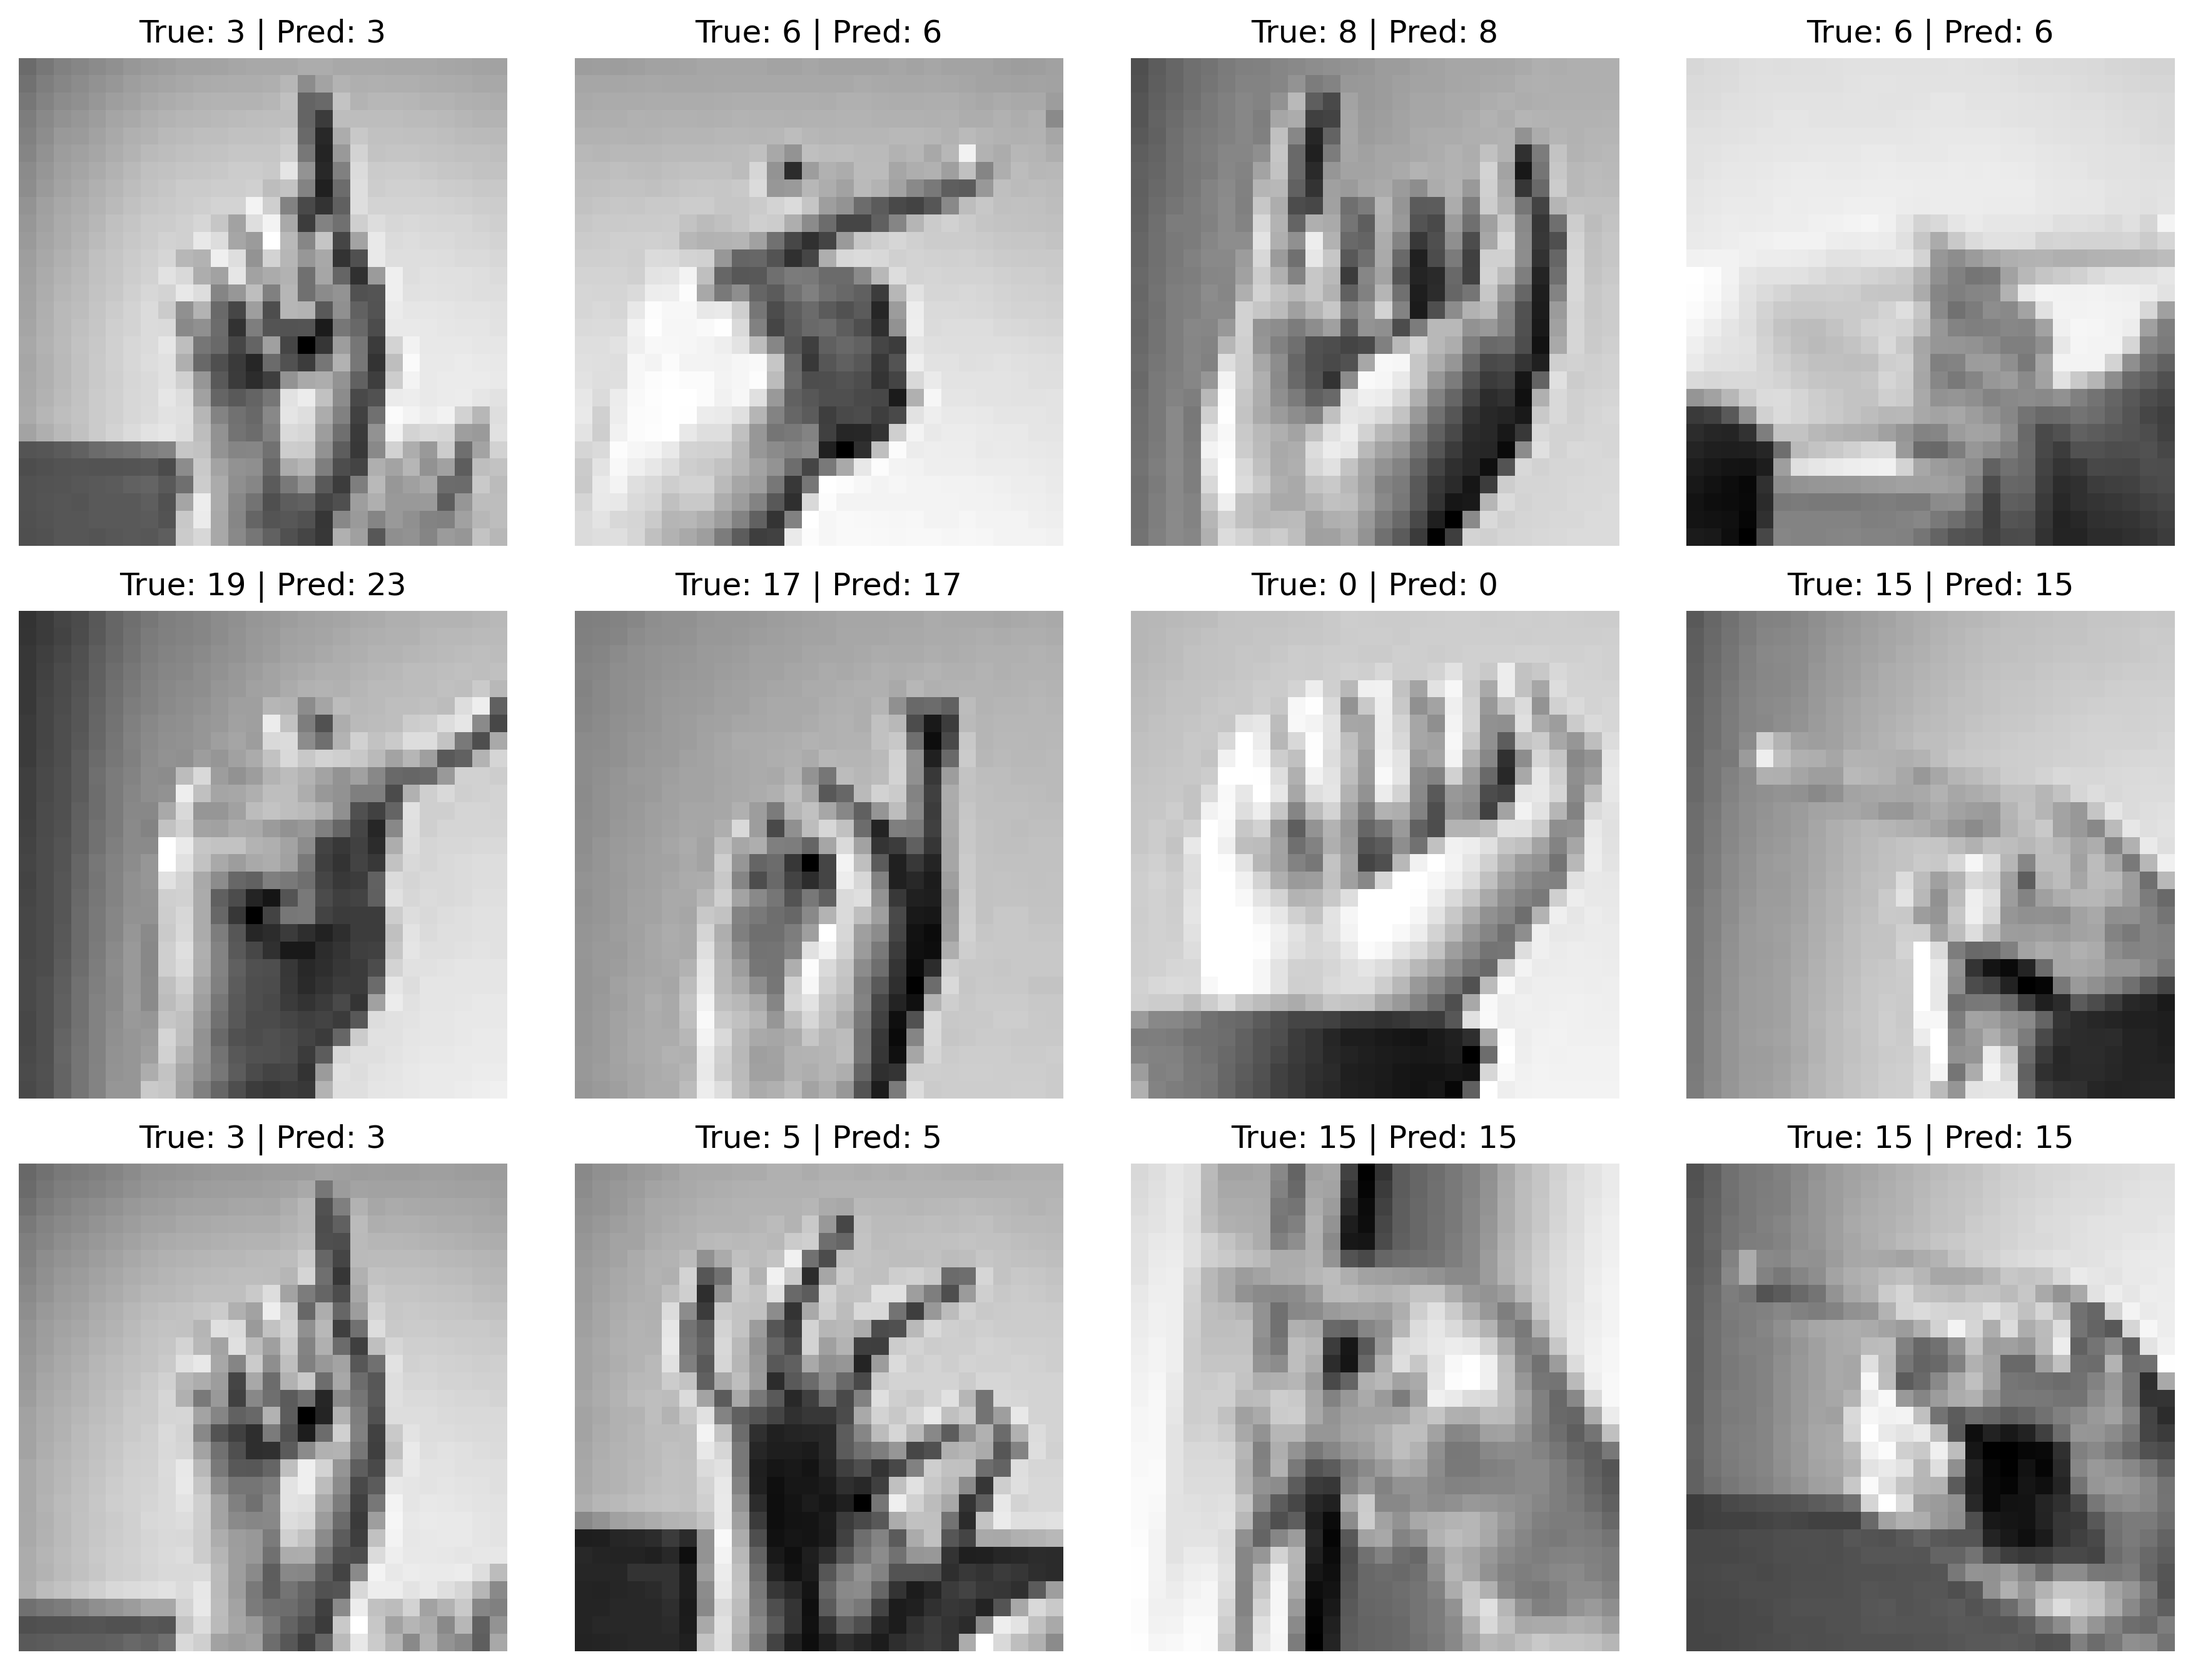
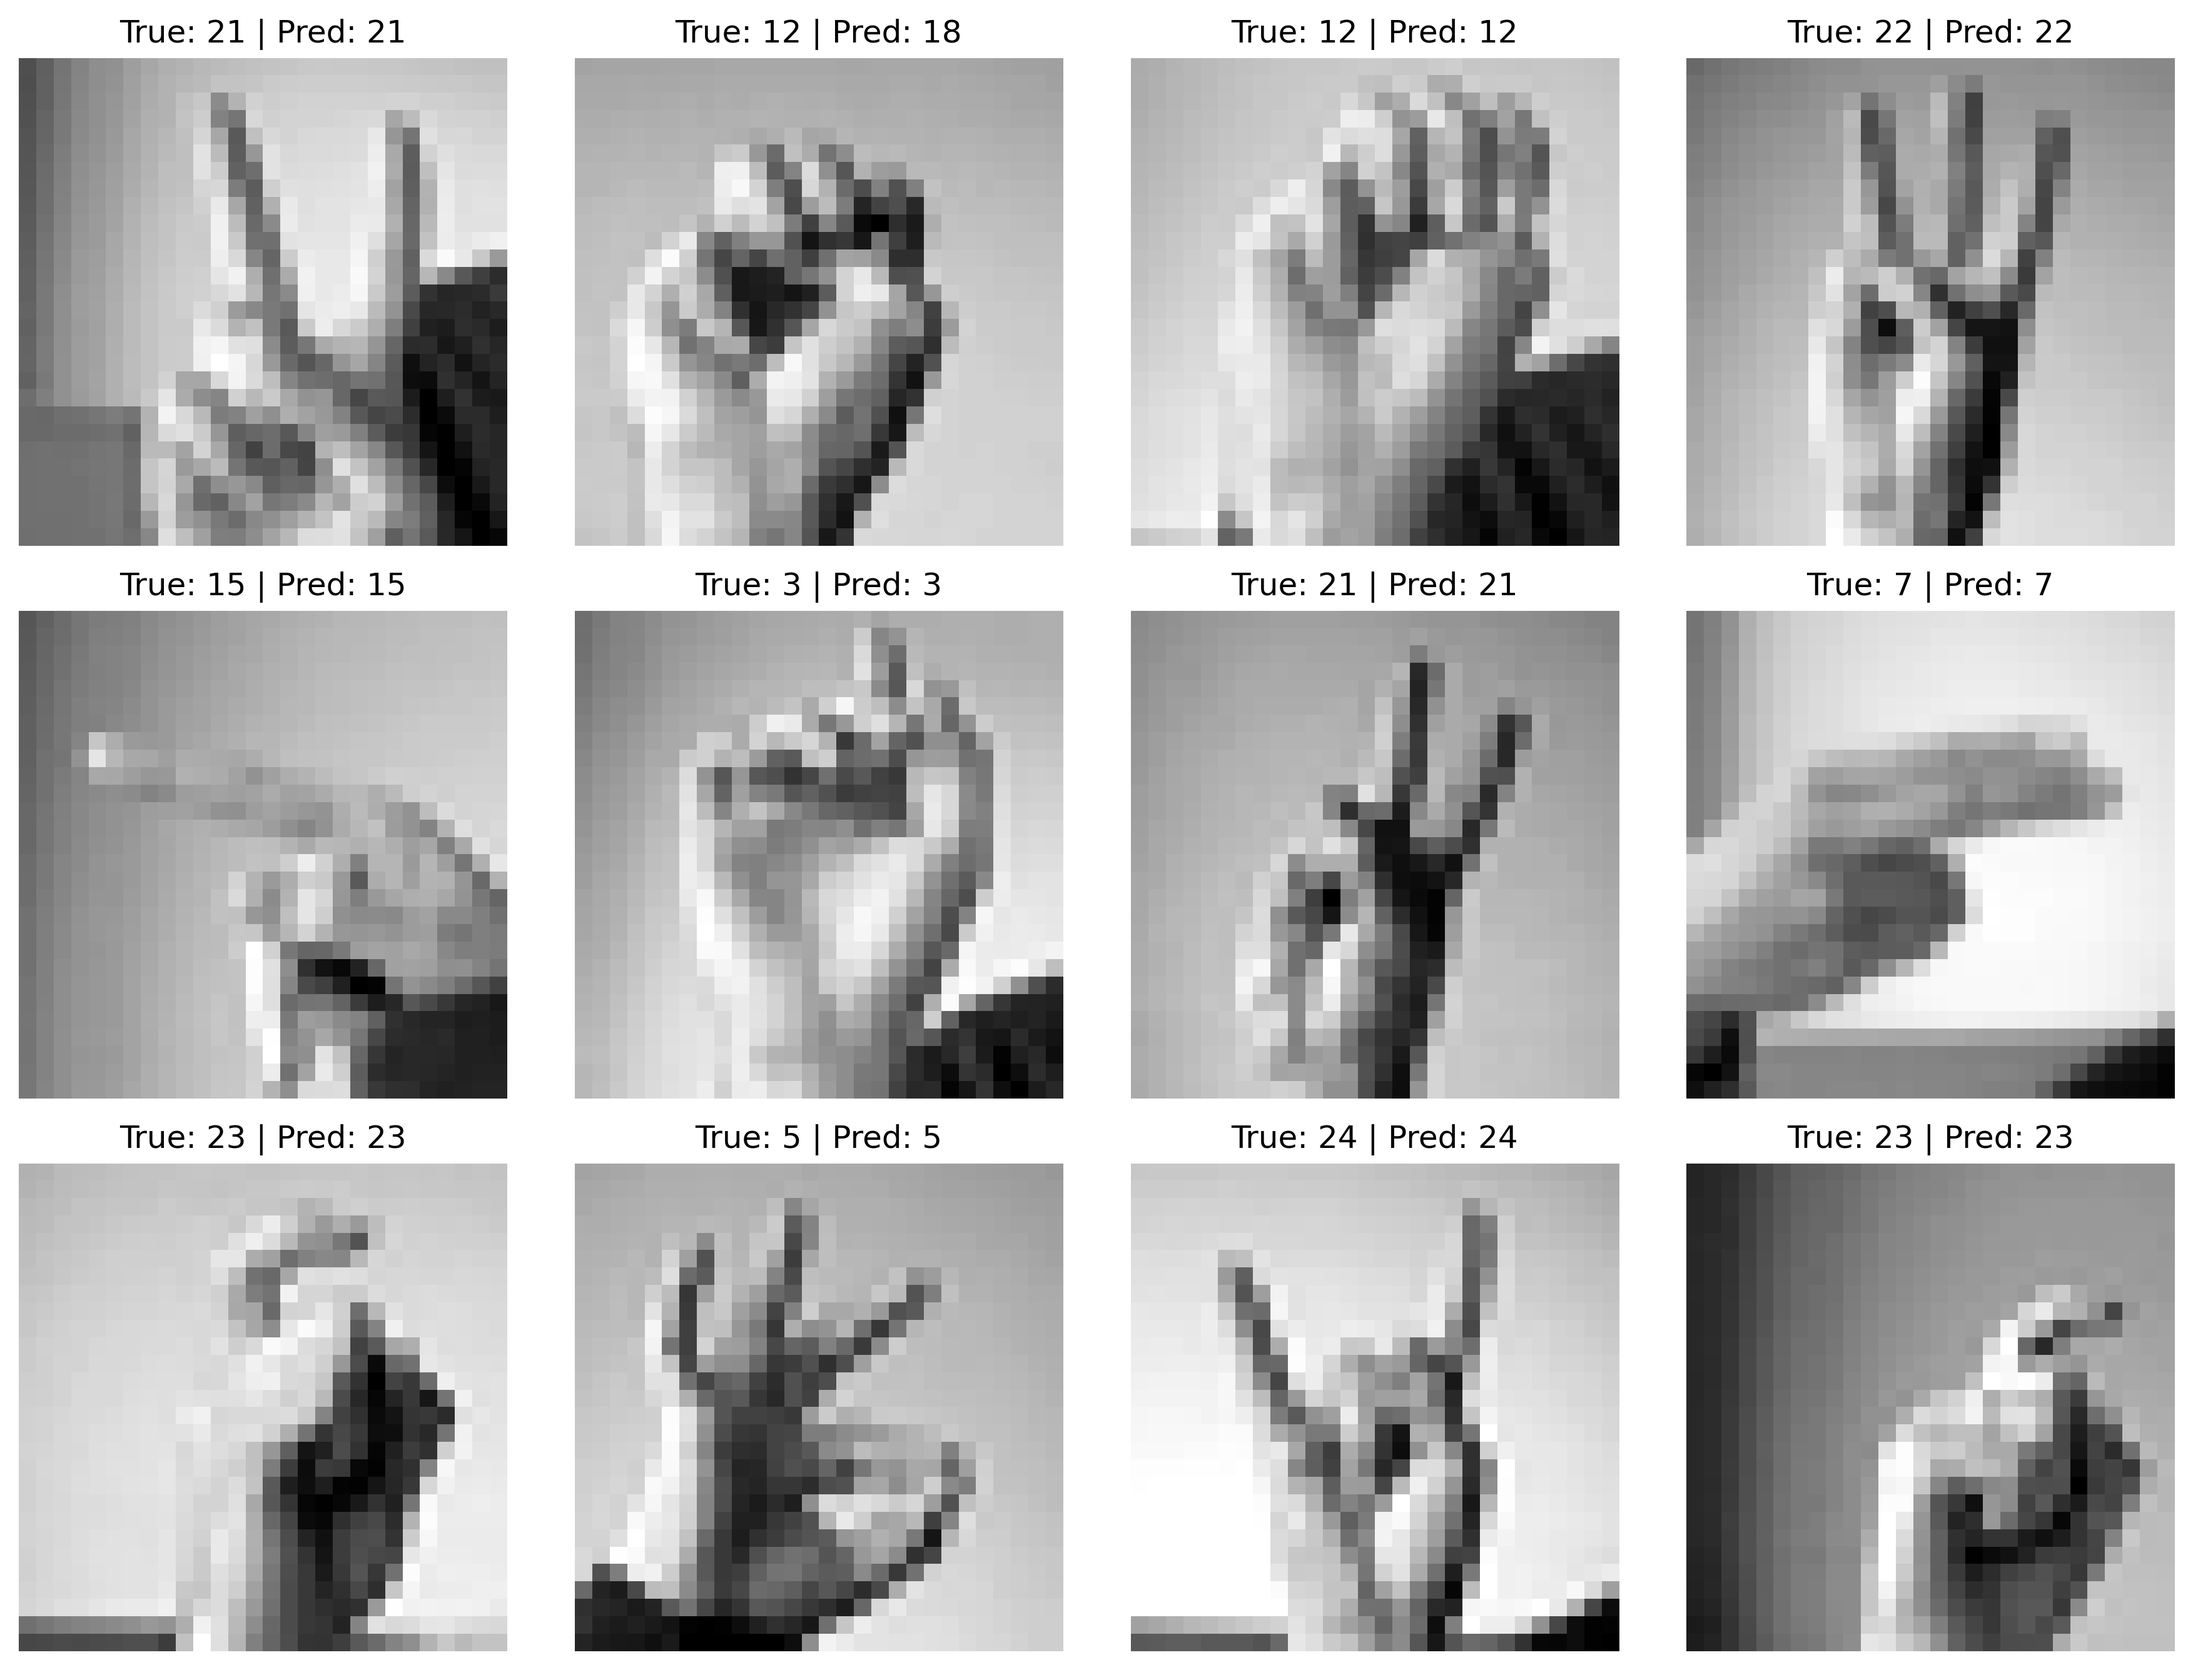
feat: enhance confusion matrix visualization by increasing figure size, formatting values as integers, and reducing cell text font size.

diff --git a/test.py b/test.py
@@ -107,13 +107,41 @@ print(f"Test Accuracy: {accuracy:.2f}%")
 # -------------------------------------------------
 # Confusion Matrix (SAVE + SHOW)
 # -------------------------------------------------
+# cm = confusion_matrix(all_labels, all_preds)
+# disp = ConfusionMatrixDisplay(cm)
+# disp.plot(cmap="Blues", xticks_rotation="vertical")
+# plt.title("Confusion Matrix")
+# plt.tight_layout()
+# plt.savefig("outputs/confusion_matrix.png", dpi=300, bbox_inches="tight")
+# plt.show()
+
+# -------------------------------------------------
+# Confusion Matrix (SAVE + SHOW)
+# -------------------------------------------------
 cm = confusion_matrix(all_labels, all_preds)
+
+fig, ax = plt.subplots(figsize=(10, 10))   # <-- bigger figure
 disp = ConfusionMatrixDisplay(cm)
-disp.plot(cmap="Blues", xticks_rotation="vertical")
+
+disp.plot(
+    cmap="Blues",
+    xticks_rotation="vertical",
+    ax=ax,
+    values_format='d'                      # <-- show integers
+)
+
+# make the text smaller so it fits in each cell
+for txt in disp.text_.ravel():
+    txt.set_fontsize(6)                   # try 5–8 and see what you like
+
 plt.title("Confusion Matrix")
 plt.tight_layout()
-plt.savefig("outputs/confusion_matrix.png", dpi=300, bbox_inches="tight")
+plt.savefig("outputs/confusion_matrix.png", dpi=300)
 plt.show()
+
+
+
+
 
 # -------------------------------------------------
 # Show 12 Predictions (SAVE + SHOW)
